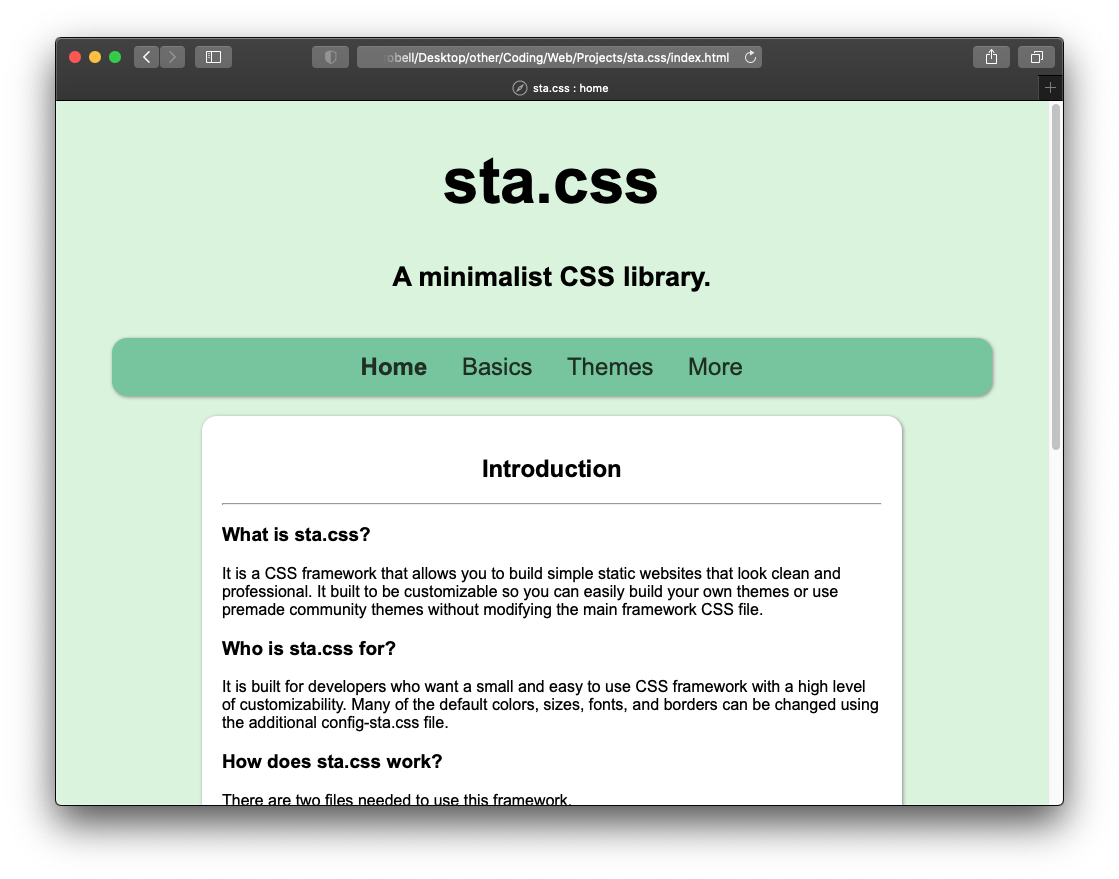
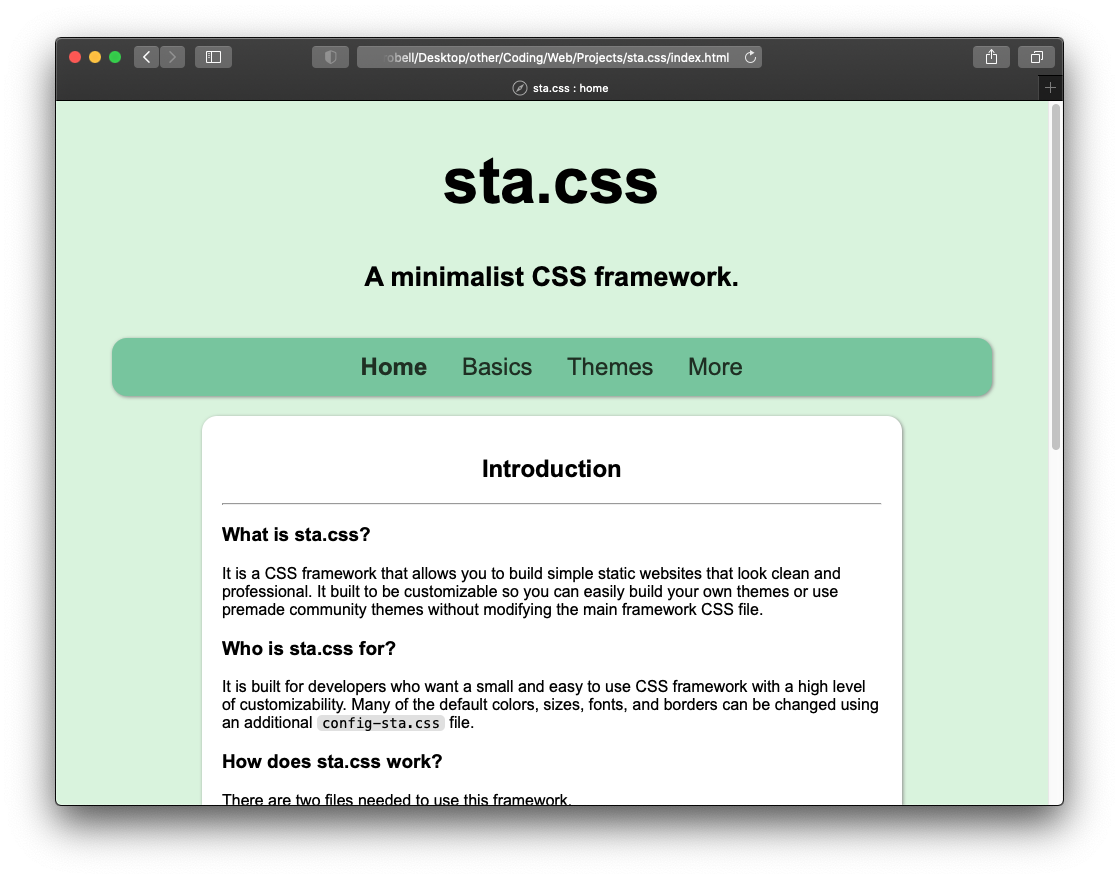
Updated site title, fixed website writing errors, and updated theme screenshots.

Changed region(s): [[0.3342, 0.2765, 0.6685, 0.3379], [0.1823, 0.7986, 0.4254, 0.8294]]

diff --git a/index.html b/index.html
@@ -17,7 +17,7 @@ Purpose: This page gives a quick intro to sta.css.
     <body class="body">
         <header class="header">
             <h1 class="title-txt"> sta.css </h1>
-            <h5 class="title-txt"> A minimalist CSS library. </h5>
+            <h5 class="title-txt"> A minimalist CSS framework. </h5>
         </header>
 
         <nav class="nav">
@@ -33,23 +33,23 @@ Purpose: This page gives a quick intro to sta.css.
             It is a CSS framework that allows you to build simple static websites that look clean and professional. It built to be customizable so you can easily build your own themes or use premade community themes without modifying the main framework CSS file.
 
             <h3>Who is sta.css for?</h3>
-            It is built for developers who want a small and easy to use CSS framework with a high level of customizability. Many of the default colors, sizes, fonts, and borders can be changed using the additional config-sta.css file.
+            It is built for developers who want a small and easy to use CSS framework with a high level of customizability. Many of the default colors, sizes, fonts, and borders can be changed using an additional <code>config-sta.css</code> file.
 
             <h3>How does sta.css work?</h3>
             There are two files needed to use this framework.
             <ol>
-                <li>The sta.css file holds the main framework with a default theme.</li>
-                <li>The optional config-sta.css file holds custom theme information.</li>
+                <li>The <code>sta.css</code> file holds the main framework with a default theme.</li>
+                <li>The optional <code>config-sta.css</code> file holds custom theme information.</li>
             </ol>
-            You only need to add the sta.css file to your project and include a config-sta.css file in the same directory as the sta.css file to change the default theme.
+            You only need to add the <code>sta.css</code> file to your project and include a <code>config-sta.css</code> file in the same directory as the <code>sta.css</code> file to change the default theme.
 
             <hr>
 
-            What are you waiting for? Download it below, learn the basics, or look at some themes!
+            What are you waiting for? Download it below, learn the basics, and try out some themes!
 
             <br><br>
 
-            <b>Note:</b> This website was styled using <code>sta.css version 0.0.1</code>.
+            <b>Note:</b> This website was styled using <code>sta.css</code>.
         </div>
 
         <div class="box w0">

diff --git a/basics.html b/basics.html
@@ -17,7 +17,7 @@ Purpose: This page teaches the user how to make a git repository, add files, and
     <body class="body">
         <header class="header">
             <h1 class="title-txt"> sta.css </h1>
-            <h5 class="title-txt"> A minimalist CSS library. </h5>
+            <h5 class="title-txt"> A minimalist CSS framework. </h5>
         </header>
 
         <nav class="nav">
@@ -227,7 +227,7 @@ Mauris commodo tincidunt vestibulum. Morbi faucibus vulputate mollis. Duis sed d
         <div id="buttons" class="box w3">
             <h2> Buttons </h2>
             <hr>
-            The main button is created using the <code>.btn</code> class. There are four default hover effects: <code>.btn.border</code>, <code>.btn.lines</code>, <code>.btn.dark</code>, and <code>.btn.light</code>. Each of these can be seen below. Anything that is clickable can be styled to look like a button.
+            The main button is created using the <code>.btn</code> class. There are four default hover effects: <code>.btn.dark</code>, <code>.btn.light</code>, <code>.btn.border</code>, and <code>.btn.lines</code>. Each of these can be seen below. Anything that is clickable can be styled to look like a button.
         </div>
 
         <details>
@@ -258,7 +258,7 @@ Mauris commodo tincidunt vestibulum. Morbi faucibus vulputate mollis. Duis sed d
         <div id="footer" class="box w3">
             <h2> Footer </h2>
             <hr>
-            The <code>.footer</code> class creates a footer for the page which has matching background and width to the <code>.body</code> class. This space is used for crediting and branding.
+            The <code>.footer</code> class creates a footer for the page and its background and width match those found in the <code>.body</code> class. This space is used for crediting and branding.
         </div>
 
         <details>

diff --git a/more.html b/more.html
@@ -17,7 +17,7 @@ Purpose: This page teaches the user how use the clone, pull, and push git comman
     <body class="body">
         <header class="header">
             <h1 class="title-txt"> sta.css </h1>
-            <h5 class="title-txt"> A minimalist CSS library. </h5>
+            <h5 class="title-txt"> A minimalist CSS framework. </h5>
         </header>
 
         <nav class="nav">

diff --git a/themes.html b/themes.html
@@ -17,7 +17,7 @@ Purpose: This page teaches the user how make branches, revert commits, and merge
     <body class="body">
         <header class="header">
             <h1 class="title-txt"> sta.css </h1>
-            <h5 class="title-txt"> A minimalist CSS library. </h5>
+            <h5 class="title-txt"> A minimalist CSS framework. </h5>
         </header>
 
         <nav class="nav">

diff --git a/css/sta.css b/css/sta.css
@@ -69,6 +69,7 @@ html {
 }
 .media.clear {
     box-shadow: none;
+    border-radius: none;
 }
 
 /* box */
@@ -97,7 +98,7 @@ html {
 }
 
 /* code */
-.box > code, .code {
+.box code, .code {
     border-radius: 5px;
     padding-right: 5px;
     padding-left: 5px;
